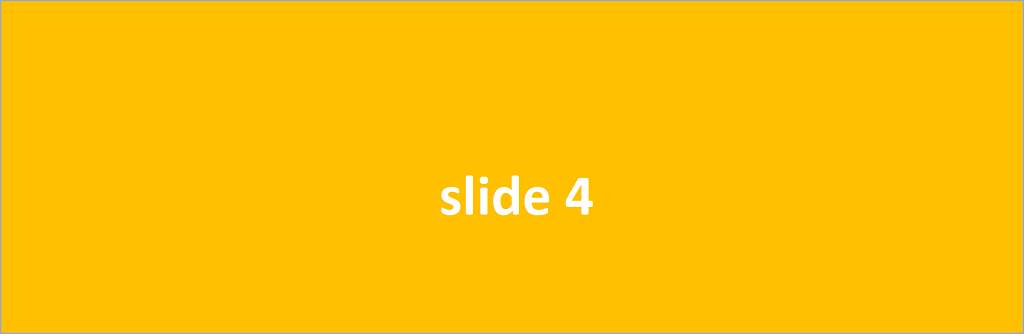
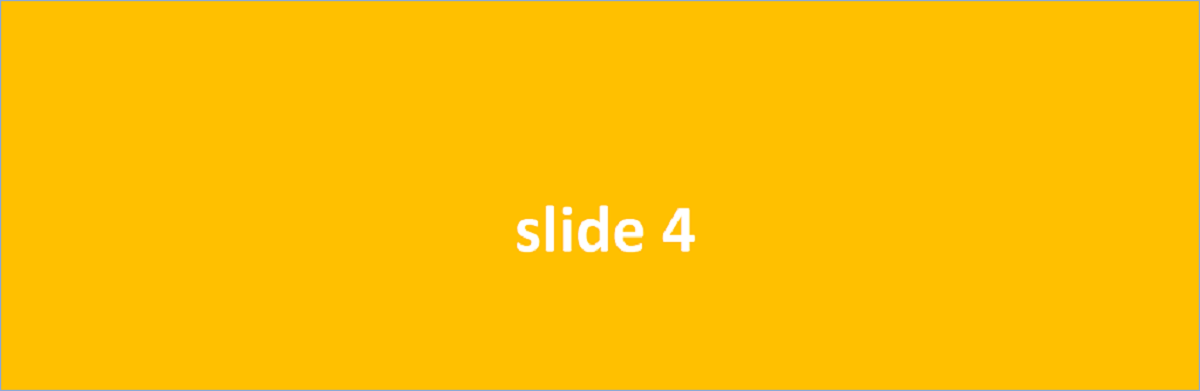
Correções no carrosel

diff --git a/projeto/public/carrosel/styles-carrosel.css b/projeto/public/carrosel/styles-carrosel.css
@@ -4,11 +4,16 @@
 }
 
 
+#container-carrosel{
+    width: 89%;
+    margin: auto;
+}
+
 .slide{
     margin: auto;
-    width: 80%;
+    width: 100%;
     overflow: hidden;
-    transition: all 0.5s;
+    transition: all 0.4s;
 }
 
 .slides{
@@ -17,7 +22,7 @@
 }
 
 #atual{
-    transition: all 2s;
+    transition: all 1s;
 }
 
 .btn{
@@ -39,13 +44,13 @@
 }
 
 #voltar{
-    top: 25%;
-    left: 10%;
+    top: 44%;
+    left: 6%;
 }
 
 #next{
-    top: 25%;
-    right: 10%;
+    top: 44%;
+    right: 6%;
 }
 
 .balls{

diff --git a/projeto/public/carrosel/carrosel.js b/projeto/public/carrosel/carrosel.js
@@ -44,7 +44,7 @@ function slide(){
         atual = quant.length-1
     }
     document.querySelector('.imgAtual').classList.remove('.imgAtual')
-    imagem.style.marginLeft = -1024*atual+'px'
+    imagem.style.marginLeft = -1200*atual+'px'
     document.getElementById(atual).classList.add('imgAtual')
 }
 setInterval(() =>{
